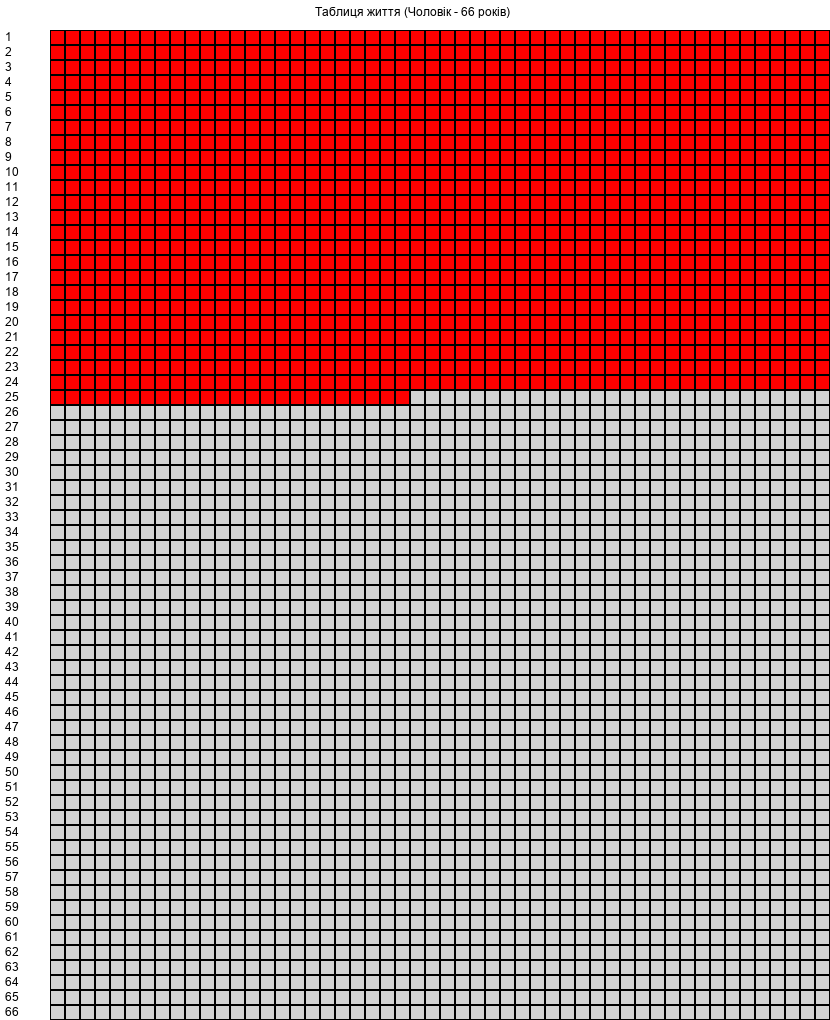
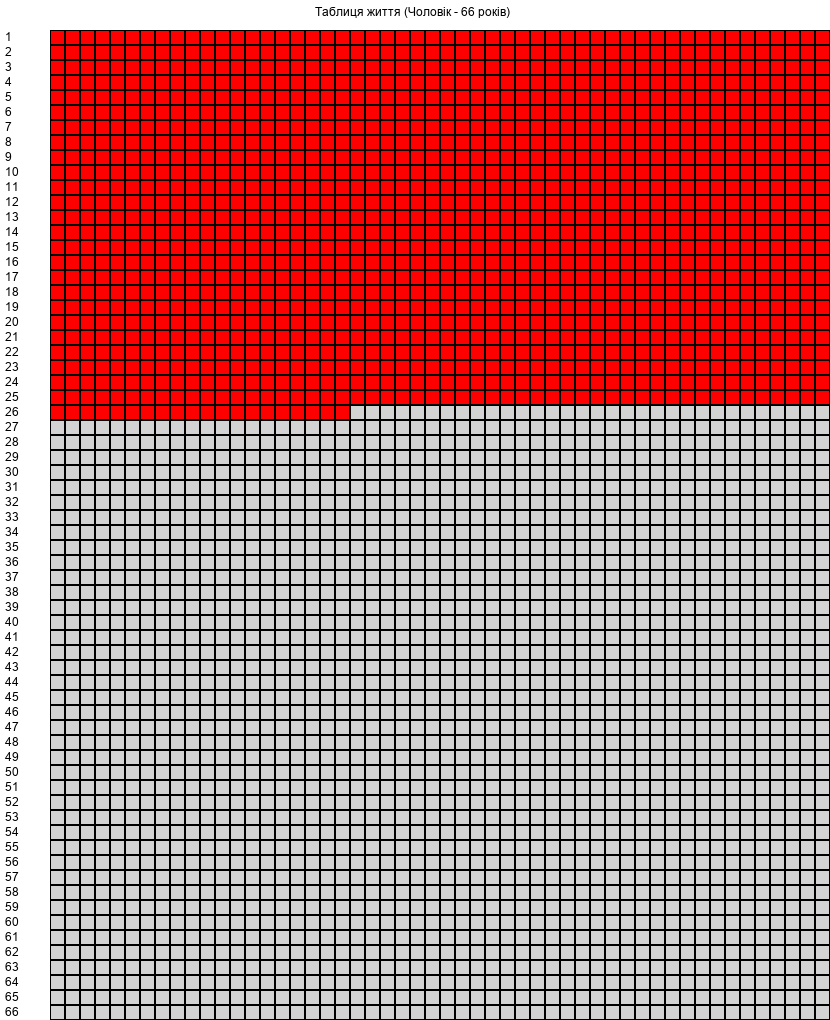
changed button from inline to markup

Changed region(s): [[0.4819, 0.3647, 1.0, 0.3951], [0.0602, 0.3951, 0.4217, 0.4255]]

diff --git a/handlers/profile.py b/handlers/profile.py
@@ -22,11 +22,10 @@ from datetime import datetime
 
 router = Router()
 
-@router.callback_query(F.data == "edit_profile")
-async def edit_profile(callback: CallbackQuery):
+@router.message(F.text == "📝 Редагувати дані")
+async def edit_profile(message: Message):
     """Відкриття меню редагування профілю"""
-    await callback.answer()
-    await callback.message.answer(
+    await message.answer(
         "Що саме ви хочете змінити?",
         reply_markup=get_edit_profile_keyboard()
     )
@@ -35,17 +34,17 @@ async def edit_profile(callback: CallbackQuery):
 async def change_gender(callback: CallbackQuery, state: FSMContext):
     """Зміна статі користувача"""
     await callback.answer()
+    await callback.message.delete()
     await callback.message.answer(
         "Виберіть вашу стать:",
         reply_markup=get_gender_keyboard()
     )
     await state.set_state(ProfileStates.waiting_for_new_gender)
 
-@router.callback_query(ProfileStates.waiting_for_new_gender, F.data.in_(["male", "female"]))
+@router.callback_query(ProfileStates.waiting_for_new_gender, F.data.in_(["Чоловік", "Жінка"]))
 async def process_new_gender(callback: CallbackQuery, state: FSMContext):
     """Обробка нової статі"""
-    await callback.answer()
-    gender = callback.data
+    gender = callback.message.text
     user_id = callback.from_user.id
     
     # Оновлюємо стать у БД
@@ -85,6 +84,7 @@ async def process_new_gender(callback: CallbackQuery, state: FSMContext):
 async def change_birth_date(callback: CallbackQuery, state: FSMContext):
     """Зміна дати народження"""
     await callback.answer()
+    await callback.message.delete()
     await callback.message.answer(
         "Введіть вашу нову дату народження у форматі ДД.ММ.РРРР\n"
         "Наприклад: 01.01.1990"
@@ -141,6 +141,7 @@ async def process_new_birth_date(message: Message, state: FSMContext):
 async def confirm_delete_data(callback: CallbackQuery, state: FSMContext):
     """Підтвердження видалення даних"""
     await callback.answer()
+    await callback.message.delete()
     await callback.message.answer(
         "⚠ Ви впевнені, що хочете видалити всі свої дані? "
         "Ця дія не може бути скасована.",
@@ -152,6 +153,7 @@ async def confirm_delete_data(callback: CallbackQuery, state: FSMContext):
 async def process_delete_data(callback: CallbackQuery, state: FSMContext):
     """Видалення даних користувача"""
     await callback.answer()
+    await callback.message.delete()
     user_id = callback.from_user.id
     
     # Видаляємо дані користувача
@@ -169,6 +171,7 @@ async def process_delete_data(callback: CallbackQuery, state: FSMContext):
 async def cancel_delete_data(callback: CallbackQuery, state: FSMContext):
     """Скасування видалення даних"""
     await callback.answer()
+    await callback.message.delete()
     await callback.message.answer(
         "Видалення даних скасовано.",
         reply_markup=get_main_menu_keyboard()
@@ -179,15 +182,13 @@ async def cancel_delete_data(callback: CallbackQuery, state: FSMContext):
 async def back_to_main_menu(callback: CallbackQuery):
     """Повернення до головного меню"""
     await callback.answer()
-    await callback.message.answer(
-        "Головне меню:",
-        reply_markup=get_main_menu_keyboard()
-    )
+    await callback.message.delete()
 
 @router.callback_query(F.data == "update_table")
 async def update_life_table(callback: CallbackQuery):
     """Оновлення таблиці життя"""
     await callback.answer()
+    await callback.message.delete()
     user_id = callback.from_user.id
     
     # Отримуємо дані користувача
@@ -228,6 +229,7 @@ async def update_life_table(callback: CallbackQuery):
 async def notification_settings(callback: CallbackQuery):
     """Налаштування нагадувань"""
     await callback.answer()
+    await callback.message.delete()
     user_id = callback.from_user.id
     
     # Отримуємо дані користувача
@@ -248,6 +250,7 @@ async def notification_settings(callback: CallbackQuery):
 async def toggle_user_notifications(callback: CallbackQuery):
     """Увімкнути/вимкнути нагадування"""
     await callback.answer()
+    await callback.message.delete()
     user_id = callback.from_user.id
     
     # Отримуємо дані користувача

diff --git a/handlers/start.py b/handlers/start.py
@@ -26,23 +26,22 @@ async def cmd_start(message: Message, state: FSMContext):
     else:
         # Новий користувач
         await message.answer(
-            "Вітаю! Я бот, який допоможе вам усвідомити цінність часу. "
-            "Я покажу скільки тижнів ви вже прожили і скільки приблизно залишилось.\n\n"
-            "Для початку, вкажіть вашу стать:",
+            "Привіт! Я створений, щоб нагадати: час — це життя. Порахуй зі мною, скільки тижнів ти вже прожив(ла) і скільки лишилось. "
+
+            "Для коректної роботи, будь ласка, вкажіть вашу стать:",
             reply_markup=get_gender_keyboard()
         )
         await state.set_state(RegistrationStates.waiting_for_gender)
 
-@router.callback_query(RegistrationStates.waiting_for_gender, F.data.in_(["male", "female"]))
-async def process_gender(callback: CallbackQuery, state: FSMContext):
+@router.message(RegistrationStates.waiting_for_gender, F.text.in_(["Чоловік", "Жінка"]))
+async def process_gender(message: Message, state: FSMContext):
     """Обробка вибору статі"""
-    await callback.answer()
-    gender = callback.data
+    gender = message.text
     
     await state.update_data(gender=gender)
-    await callback.message.answer(
-        "Дякую! Тепер введіть дату вашого народження у форматі ДД.ММ.РРРР\n"
-        "Наприклад: 01.01.1990"
+    await message.answer(
+        """Залишилось вказати вашу дату народження. Формат: ДД.ММ.РРРР
+Приклад: 22.02.2002"""
     )
     await state.set_state(RegistrationStates.waiting_for_birth_date)
 
@@ -73,6 +72,8 @@ async def process_birth_date(message: Message, state: FSMContext):
         total_days = (today - birth_date).days
         years = total_days // 365
         remaining_days = total_days % 365
+        lived_weeks = remaining_days // 7
+        remaining_days = remaining_days - lived_weeks * 7
         
         # Розраховуємо прожиті тижні
         lived_weeks = total_days // 7
@@ -80,14 +81,31 @@ async def process_birth_date(message: Message, state: FSMContext):
         # Загальна кількість днів життя (залежно від статі)
         total_life_days = 72 * 365 if gender == 'female' else 66 * 365
         days_left = total_life_days - total_days
+
+        if gender == "Чоловік":
+            mess = f'''Середній вік чоловіків в Україні 66 років!
+Ви прожили вже (рік), (тижні), (дні).
+
+Вражає?
+Покажіть друзям свою таблицю життя — пересилайте це повідомлення або поділіться ботом: @(юзер)'''
+        else:
+            mess = f'''Середній вік жінок в Україні 72 роки!
+Ви прожили вже {years} років, {lived_weeks} тижнів,  {remaining_days} днів.
+
+Вражає?
+Покажіть друзям свою таблицю життя — пересилайте це повідомлення або поділіться ботом: @(юзер)'''
         
-        await message.answer_photo(
-            photo=FSInputFile(table_image),
-            caption=f"{message.from_user.first_name}, ти прожив(ла) свій {lived_weeks}-й тиждень!\n"
-                    f"Тобі: {years} років, {remaining_days} днів\n"
-                    f"Жити залишилося всього {days_left} днів!\n\n"
-                    f"Час минає швидше, ніж ми думаємо...",
+        await message.answer(
+            text=mess,
             reply_markup=get_main_menu_keyboard()
+        )
+
+        await message.answer_photo(
+            photo=FSInputFile(table_image)
+        )
+
+        await message.answer(
+            text='Я щотижня надсилатиму вам оновлену таблицю. Побачимось за тиждень!'
         )
         
         await state.clear()

diff --git a/utils/keyboards.py b/utils/keyboards.py
@@ -3,19 +3,23 @@ from aiogram.utils.keyboard import InlineKeyboardBuilder
 
 def get_gender_keyboard():
     """Клавіатура для вибору статі"""
-    builder = InlineKeyboardBuilder()
-    builder.add(InlineKeyboardButton(text="Чоловік", callback_data="male"))
-    builder.add(InlineKeyboardButton(text="Жінка", callback_data="female"))
-    return builder.as_markup()
+    return ReplyKeyboardMarkup(
+        keyboard=[
+            [KeyboardButton(text="Чоловік"),
+            KeyboardButton(text="Жінка")]
+        ],
+        resize_keyboard=True
+    )
 
 def get_main_menu_keyboard():
     """Головне меню бота"""
-    builder = InlineKeyboardBuilder()
-    builder.row(InlineKeyboardButton(text="📝 Редагувати дані", callback_data="edit_profile"))
-    builder.row(InlineKeyboardButton(text="💡 Запропонувати ідею", callback_data="suggest_idea"))
-    builder.row(InlineKeyboardButton(text="📊 Оновити таблицю", callback_data="update_table"))
-    builder.row(InlineKeyboardButton(text="🔔 Налаштування нагадувань", callback_data="notification_settings"))
-    return builder.as_markup()
+    return ReplyKeyboardMarkup(
+        keyboard=[
+            [KeyboardButton(text="📝 Редагувати дані"),
+            KeyboardButton(text="💡 Запропонувати ідею")]
+        ],
+        resize_keyboard=True
+    )
 
 def get_edit_profile_keyboard():
     """Клавіатура для редагування профілю"""

diff --git a/handlers/ideas.py b/handlers/ideas.py
@@ -10,11 +10,10 @@ from config import ADMIN_IDS
 
 router = Router()
 
-@router.callback_query(F.data == "suggest_idea")
-async def suggest_idea(callback: CallbackQuery, state: FSMContext):
+@router.message(F.text == "💡 Запропонувати ідею")
+async def suggest_idea(message: Message, state: FSMContext):
     """Запропонувати ідею для розвитку"""
-    await callback.answer()
-    await callback.message.answer(
+    await message.answer(
         "Поділіться вашою ідеєю для покращення цього бота. "
         "Напишіть, що б ви хотіли додати або змінити."
     )
